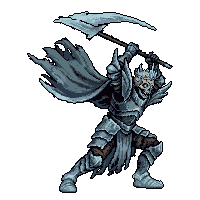
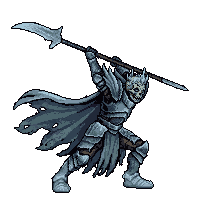
Feedback boss heavy fixes: new Garland and lich attack_raise keys, re-rigged swings, swing2 smear, daze pinholes
After the independent image review (both ITERATE):
- garland/boss_attack_raise retry (#31, seed 1235, --retry): three-quarter front view, full
  horned helm with visor and red eyes, large pauldrons, the idle's sword length and width.
  Self-approved over #28 (headroom 5 px, as the idle's 4; recorded in ACT1_LOG).
- lich/boss_attack_raise retry (#32, seed 1236, user-approved 3rd attempt): the idle's
  slim curved glaive at full length with its spearhead, crisp skull and icicle crown.
  A free fix could not work: the approved key is shown for the hold and a rig cannot
  carry the idle glaive into raise-sourced frames (carry exists only in hurt_in2).
- budget.json pass F cap 4 -> 5 in total, 2 -> 3 per sheet (user, 2026-11-15; garland stays
  at 2 by decision); selftest_daze reads the caps from budget.json.
- Rigs: attack_raise joints and head / cape / weapon masks re-marked for the new keys;
  garland atk_swing leans the upper body 9 deg with the blade 13 deg forward, atk_swing2
  (the atk_mid pose) gains a smear arc behind the blade tip; lich atk_swing turns the
  glaive 9 deg (the 190 px weapon leaves no room for more under the cell top and the bbox
  lerp), atk_swing2 leans back toward the raise with the frost trail at 60 % (ends x 170).
  Stale atk_swing patches removed; garland daze / daze_b pinholes filled.
- monster_anim.py check garland lich: lock lines only (new frames not locked).

diff --git a/assets-src/gen/selftest_daze.py b/assets-src/gen/selftest_daze.py
@@ -111,10 +111,13 @@ def run_ledger(check: Callable[[bool, str], None]) -> None:
     for e in new:
         per[(e["character"], e["sheet"])] = per.get((e["character"], e["sheet"]), 0) + 1
     check(len(new) <= cap["max_new"] and all(n <= cap["max_per_sheet"] for n in per.values())
-          and all(s == "boss_attack_raise" and c in ("garland", "lich") for c, s in per),
+          and all(s == "boss_attack_raise" and c in ("garland", "lich") for c, s in per)
+          and per.get(("garland", "boss_attack_raise"), 0) <= 2,
           f"ledger: pass F made {len(new)} Gemini attempts (<= {cap['max_new']}, <= {cap['max_per_sheet']} per sheet, "
-          f"garland / lich boss_attack_raise only): {per}")
-    check(len(gem) - json.loads(GEN.BUDGET.read_text())["attempts_before"] <= 30, "the run budget ends at <= 30 of 100")
+          f"garland <= 2 by decision, garland / lich boss_attack_raise only): {per}")
+    end = cap["gemini_before"] - json.loads(GEN.BUDGET.read_text())["attempts_before"] + cap["max_new"]
+    check(len(gem) - json.loads(GEN.BUDGET.read_text())["attempts_before"] <= end,
+          f"the run budget ends at <= {end} (pass F's cap; 2026-11-15: the user raised it by one lich attempt)")
 
     def refused(n_new: int, sheet: str) -> bool:
         fake = gem[:cap["gemini_before"]] + [{"event": "attempt", "backend": "gemini", "character": "lich",
@@ -123,10 +126,12 @@ def run_ledger(check: Callable[[bool, str], None]) -> None:
         try:
             GEN.check_budget([req], paid=True, max_paid=1, retry=True, ledger=fake)
         except SystemExit as e:
-            return "pass F" in str(e)
+            return "refused" in str(e)          # pass F's cap, or the run's per-sheet cap when it is the same (3)
         return False
-    check(refused(2, "boss_attack_raise") and refused(4, "kit_x") and not refused(1, "boss_attack_raise"),
-          "check_budget refuses a 3rd attempt at one pass F sheet and a 5th pass F attempt in total")
+    per_sheet, total = cap["max_per_sheet"], cap["max_new"]
+    check(refused(per_sheet, "boss_attack_raise") and refused(total, "kit_x")
+          and not refused(per_sheet - 1, "boss_attack_raise"),
+          f"check_budget refuses attempt {per_sheet + 1} at one pass F sheet and attempt {total + 1} in total")
 
 
 def run_heavy(check: Callable[[bool, str], None]) -> None:

diff --git a/docs/ACT1_LOG.md b/docs/ACT1_LOG.md
@@ -154,7 +154,12 @@ Branch `feedback`, worktree. `docs/FEEDBACK_PLAN_2026-11-14.md` §3.7 (item 7) a
 | 28 | garland/boss_attack_raise (seed 1234, key `eeccce6b59e52b7e824a5705`) | 1 | Crouched two-handed overhead raise, greatsword above the helm and swept back over the shoulder, cape behind, facing right. 176 px tall (band 140-168 +10 %), lowest row 192, top row 17 (headroom 17 px), x 22-178, no border pixels, binary alpha, 15 colours with the outline ink. 6 of 15 colours shared with the four approved poses (each approved pose shares 4-5 with the others; the eye reads one palette, the cape a little browner like the approved attack). `pose_diff` 0.63 vs idle, 0.98 vs attack; the sword is whole | **self-approved** (attempt 1 of 2 allowed) |
 | 29 | lich/boss_attack_raise (seed 1234, key `9b23f8bd8299a6527f831956`) | 1 | Crouched overhead raise, both gauntlets lifting the glaive over the icicle crown, blade swept back up-left, facing right; 180 px, lowest row 192, top row 13, no border pixels, binary alpha, 16 colours with the outline ink, `pose_diff` 0.67 vs idle and 0.71 vs attack. **Fails review:** the guide's grey ground line is painted across both boots (two light-grey bars with outline, about 12 and 8 px long, at the boot soles), and the raw shows part of the guide box behind the figure. A keyframe is shown as approved, so rig paint cannot hide it, and the style lock forbids editing the PNG | **rejected**; the one allowed retry follows (seed 1235, `--retry`) |
 | 30 | lich/boss_attack_raise (seed 1235, key `01447ea32ceac64855ace8f8`, `--retry`) | 1 | No guide line or box; the frost-trail arcs of the raw are keyed out (no strays). Crouched overhead raise, both gauntlets over the icicle crown, glaive blade swept back up-left, mantle flung back, facing right. 182 px (band 140-168 +10 %), lowest row 192, top row 11 (headroom 11 px), x 27-172, no border pixels, binary alpha, 14 colours with the outline ink, 6 shared with the approved poses (as each approved pose shares 4-5). `pose_diff` 0.84 vs idle, 1.01 vs attack. Nit: the blade reads broader and paler than the idle's curved rune glaive (closer to the approved attack's smeared blade) | **self-approved** (attempt 2 of 2 allowed; no further retries) |
+| 28r | garland/boss_attack_raise #28, independent image review (2026-11-15) | 0 | **Fails the image review (ITERATE):** the helm shrinks to a ~12 px dome seen from behind (idle ~20 px with both horns, the visor slit and red eyes), the torso is a back view that flips to the front-facing attack within one frame, the sword is ~85 px long against ~105 in idle and too thin, the pauldrons are undersized | the one allowed retry follows (seed 1235, `--retry`; the prompt now asks for the idle's three-quarter front view, the full-size helm and pauldrons, and the idle's sword length and width) |
+| 30r | lich/boss_attack_raise #30, independent image review (2026-11-15) | 0 | **Fails the image review (ITERATE):** the blade became a broad flat cleaver without the cyan rune inlay and no spearhead, the weapon is ~60 % of the idle glaive's length, the skull face is muddy and the crown spikes are small. **The free fix cannot work:** the approved `attack_raise` key is itself shown for the 18-frame hold (only the PNG, which the style lock forbids editing), and a rig cannot bring the idle glaive's pixels into raise-sourced frames (the renderer carries a prop's idle pixels only in `hurt_in2`, `monster_anim.generate`), so a free fix would need a framework change and would still leave the key frame wrong | the user lifted the 100-image cap (2026-11-15) and allowed ONE more paid lich attempt; `budget.json` pass F cap raised to 5 in total, 3 per sheet (garland stays at 2 by decision). Retry follows (seed 1236, `--retry`; the prompt asks for the idle's slim curved glaive with the rune inlay and spearhead at full length, no frost trail, a crisp skull and a tall icicle crown) |
+| 31 | garland/boss_attack_raise (seed 1235, key `f98cf659f26ded791c9fb262`, `--retry`) | 1 | Three-quarter front view like the idle and attack: the full horned helm with both ivory horns, the visor slit and red eyes toward the viewer, large gold-trimmed pauldrons, the greatsword as long and broad as the idle's, raised two-handed up and forward over the helm (not back over the shoulder), cape behind, deep crouch. 188 px tall (the idle is 189, the cast 187), lowest row 192, x 30-170, no border pixels, binary alpha, 16 colours with the outline ink, 9 shared with the four approved poses (#28 shared 6). `pose_diff` 0.55 vs idle, 0.95 vs attack; the sword is whole. **Deviation:** headroom 5 px (the checklist asks ≥ 10; the idle has 4). It is accepted because no heavy frame overshoots the raise upward (`atk_raise_b` bobs down, `atk_swing` turns the blade down), and the clipping check passes | **self-approved** over #28 (clearly better on every review point; attempt 2 of 2, no further garland retries) |
+| 32 | lich/boss_attack_raise (seed 1236, key `0584887494033aec0cbf7eed`, `--retry`, user-approved 3rd attempt) | 1 | The idle's glaive at full length (the haft spans x 11-188 diagonally, blade up-left behind the crown, the butt spike down-right), the slim curved ice blade with its spearhead, no frost trail; a crisp cracked skull with cyan eye lights and toothed jaw, the icicle crown; mantle flung back; deep crouch, facing right. 171 px (band 140-168 +10 %), lowest row 192, top row 22 (headroom 22 px), no border pixels, binary alpha, 16 colours with the outline ink, 11 shared with the approved poses (#30 shared 6). `pose_diff` 0.67 vs idle, 0.62 vs attack. Nit: the raw's thin cyan rune line did not survive the 16-colour cut (the blade reads pale ice) | **self-approved** over #30 (clearly better: weapon shape and length, face, crown; attempt 3 of 3, no further retries) |
 
 - Each approval: `git diff --stat assets-src/gen/approved/` shows only the new `boss_attack_raise.*` files; the dry runs showed every existing boss pose cached (no cache key changed).
+- Rigs re-marked for #31 / #32 (`keyframes.attack_raise`, the head / cape / weapon masks); `atk_swing` and `atk_swing2` re-tuned and the old patches re-derived; `monster_anim.py check garland lich` prints only lock lines (the new frames are not locked).
 
-**Images used:** 29 of the 100-image cap (ledger guard: 98 Gemini attempts − `attempts_before` 69; pass F's own cap in `budget.json` `passes`: 3 of 4, at most 2 per sheet).
+**Images used:** 31 of the 100-image cap (ledger guard: 100 Gemini attempts − `attempts_before` 69; pass F's own cap in `budget.json` `passes`, raised by the user on 2026-11-15 to 5 in total and 3 per sheet: 5 of 5, garland 2, lich 3). The user lifted the 100-image cap the same day; a new 300-image budget applies to later work.
